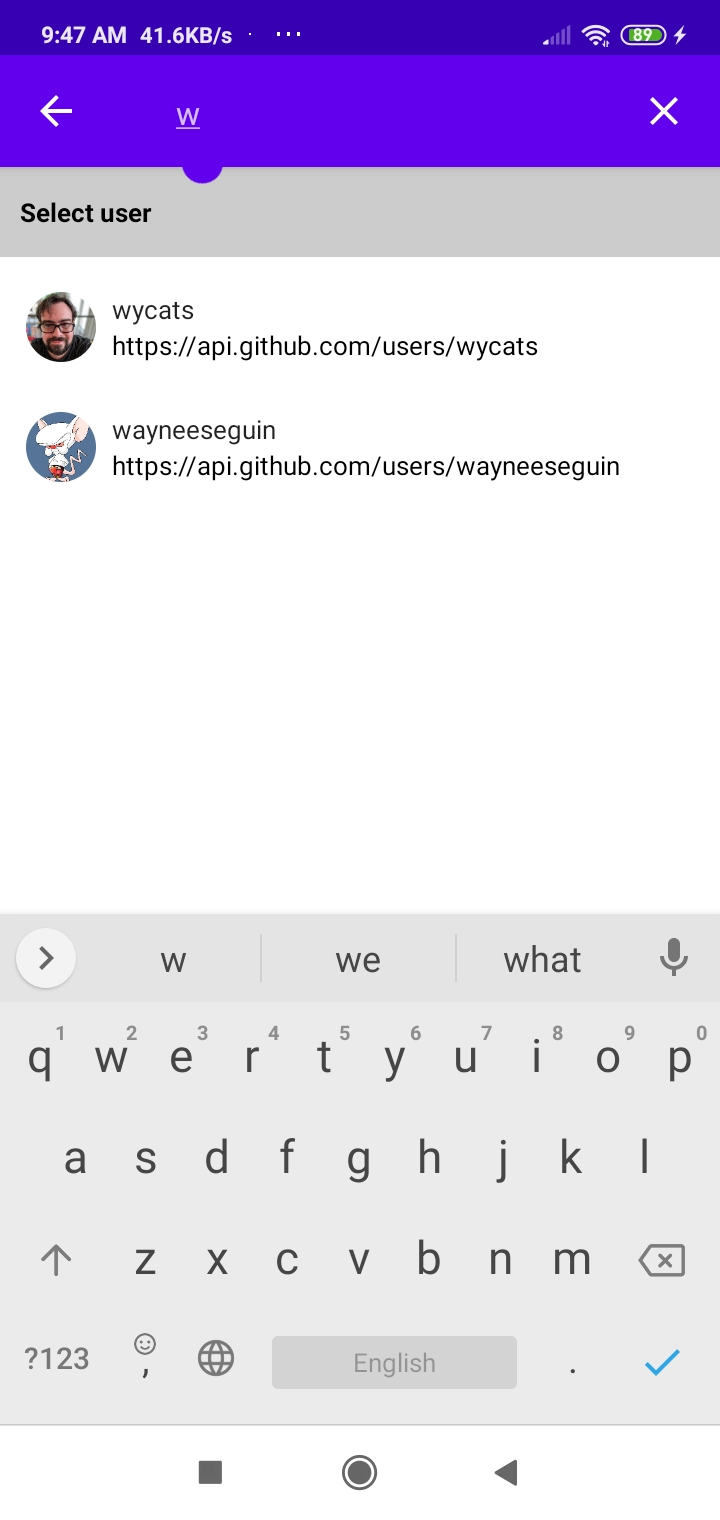
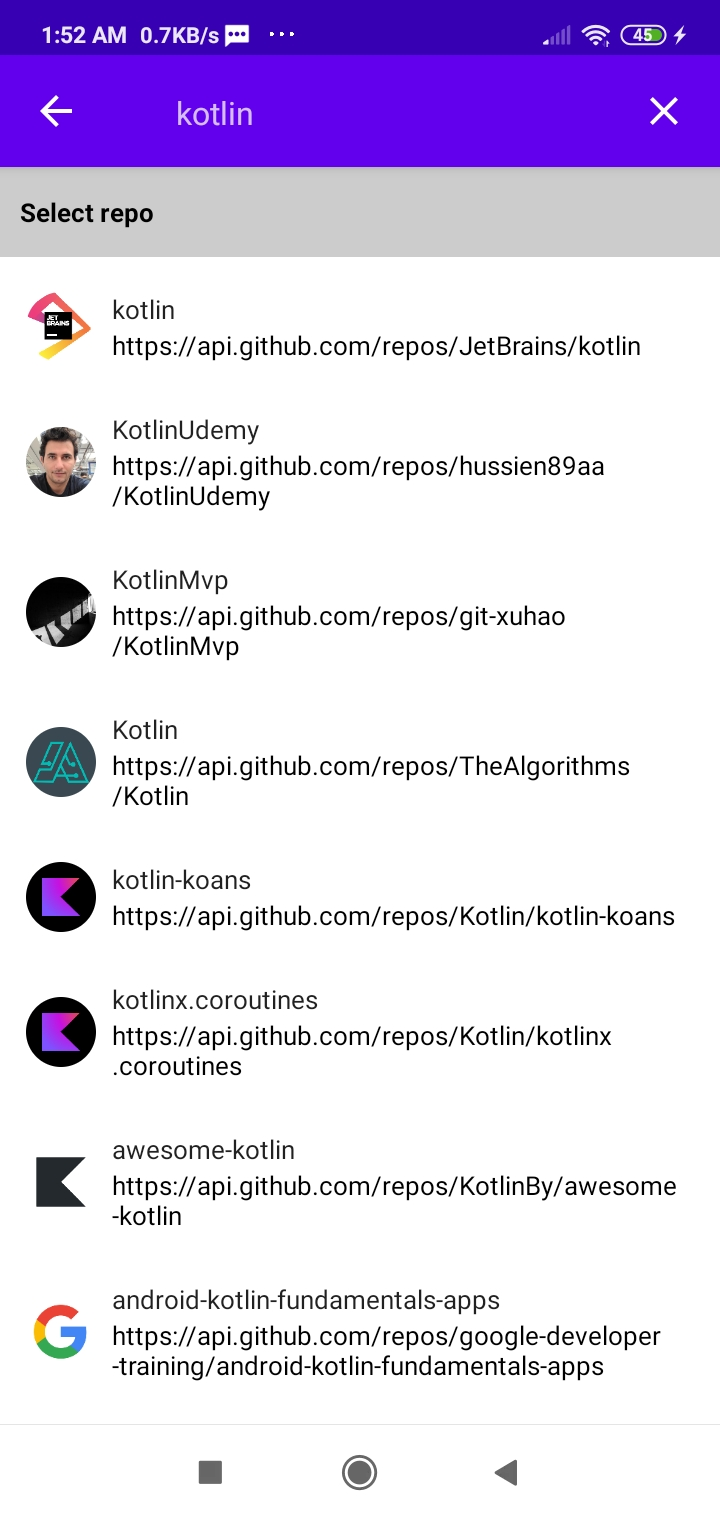
update screen shots

diff --git a/app/src/main/java/kso/repo/search/ui/repoSearchBox/RepoSearchBoxView.kt b/app/src/main/java/kso/repo/search/ui/repoSearchBox/RepoSearchBoxView.kt
@@ -67,7 +67,7 @@ fun RepoSearchBoxView(
                     contentAlignment = Alignment.CenterStart
                 ) {
                     Text(
-                        text = "Select user",
+                        text = "Select repo",
                         color = Color.Black,
                         textAlign = TextAlign.Center,
                         fontSize = 13.sp,
